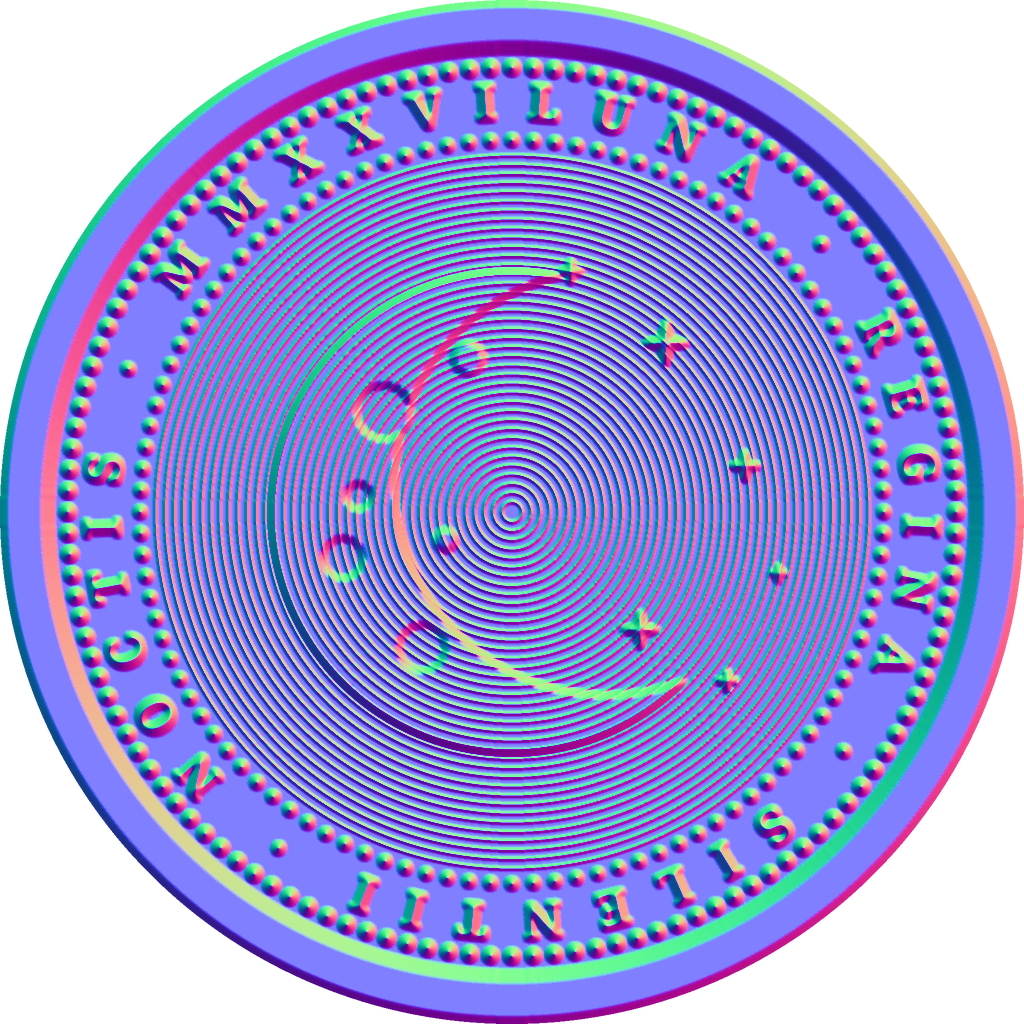
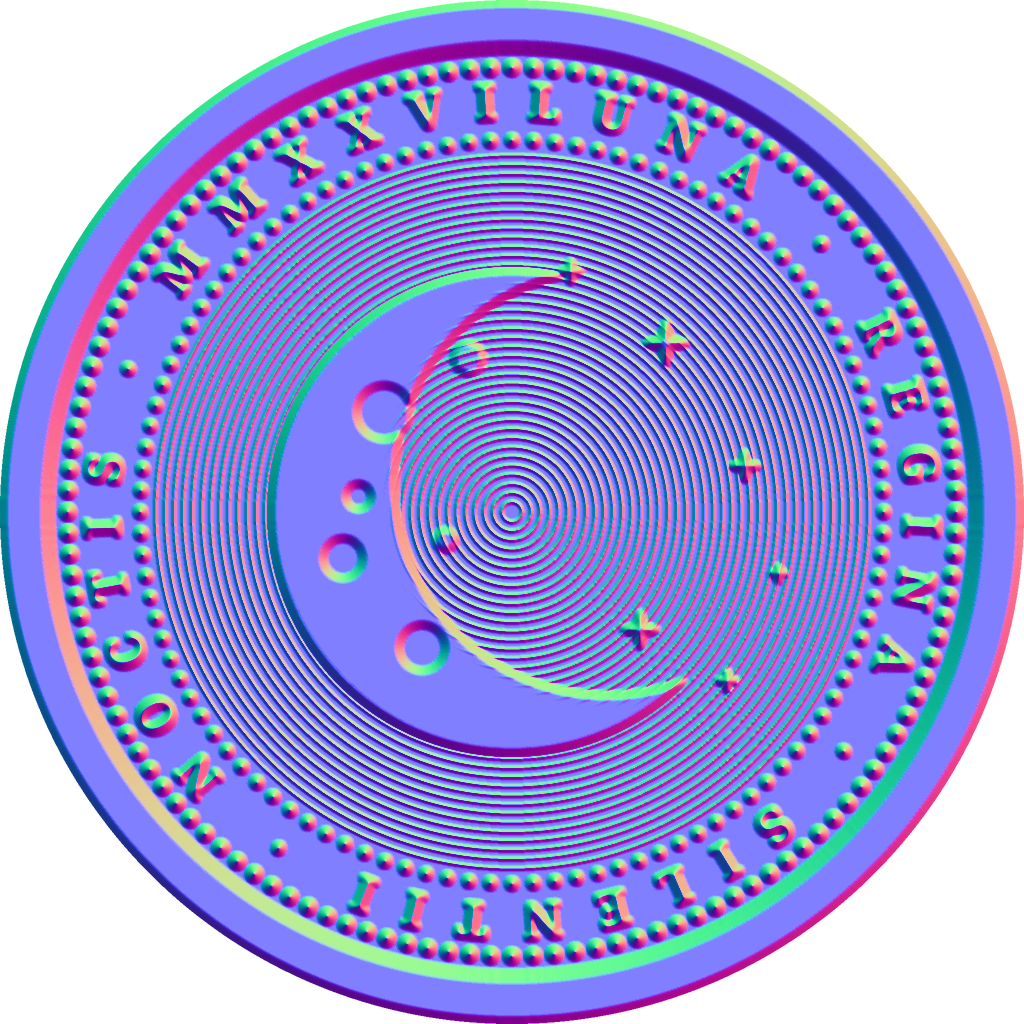
图案：凸起的日与月上擦净同心纹
真的精制币是底子打同心纹、凸起抛成镜面，两者的反差才让图案"浮"
出来。原来凸起上也压着同心纹，整面糊成一片，看着又糙又平。

- 细纹拆成"同心纹"与"放射纹"两层，只擦同心纹
  （日面那层放射细线不是同心纹，擦了光芒之间会空）
- 按凸起的实际形状擦，不是按一个圆盘：
  12 道长光芒、12 道短光芒、中央圆盘、月牙、六颗星逐个登记，
  光芒之间的空隙仍是底子，纹路保留
- 在高度图那一层擦，不是在打光时压淡。否则彩色贴图与法线贴图
  各走各的，静止看着平滑、一转高光又把纹路带回来
- 旋钮 MOTIF_RING_ERASE / MOTIF_EDGE_BLUR

Claude-Session: https://claude.ai/code/session_013L5obD5FRvDZWpqWPEBMAm

Changed region(s): [[0.25, 0.25, 0.6562, 0.75]]

diff --git a/scripts/make_assets.py b/scripts/make_assets.py
@@ -21,7 +21,7 @@ import wave
 from pathlib import Path
 
 import numpy as np
-from PIL import Image, ImageDraw, ImageFilter, ImageFont
+from PIL import Image, ImageChops, ImageDraw, ImageFilter, ImageFont
 
 SIZE = 1024                 # 成品贴图边长
 SS = 2                      # 先按 2 倍画再缩小，边缘才不会有锯齿
@@ -37,6 +37,17 @@ R_BEAD_OUTER = 0.868        # 外侧珠圈
 R_TEXT = 0.800              # 文字环中心线
 R_BEAD_INNER = 0.726        # 内侧珠圈
 R_FIELD = 0.706             # 同心细纹底的外沿
+
+# 日面的"日"、月面的"月"，**凸起的那一块上不要有同心圆纹**。
+#
+# 真的精制币就是这么做的：底子打上密密的同心纹，凸起的图案抛成镜面。
+# 两者的反差才是图案能"浮"出来的原因；要是凸起上也压着同心纹，
+# 整面就是糊的一片，看着又糙又平。
+#
+# 注意擦的是**凸起的形状本身**，不是一个圆盘——
+# 光芒与光芒之间的空隙仍然是底子，那里的同心纹要留着。
+MOTIF_RING_ERASE = 1.0      # 凸起上的同心纹擦掉多少（1 全擦净，0.5 只减淡）
+MOTIF_EDGE_BLUR = 5.0       # 凸起边缘擦出多软的过渡，避免留下生硬的分界线
 
 SUN_TEXT = "SOL · INVICTUS · LUX · AETERNA · MMXXVI"
 MOON_TEXT = "LUNA · REGINA · SILENTII · NOCTIS · MMXXVI"
@@ -107,49 +118,48 @@ def circular_text(layer: Image.Image, text: str, r: float, height: float, v: int
 
 # ─────────────────────────── 两面的图案 ───────────────────────────
 
-def sun_motif(major: Image.Image, fine: Image.Image):
+def sun_motif(major: Image.Image, rings: Image.Image,
+              texture: Image.Image, mask: Image.Image):
     """日面：中央圆盘 + 长短交错的光芒"""
     d = ImageDraw.Draw(major)
+    md = ImageDraw.Draw(mask)
     c = BIG / 2
 
-    # 长光芒和短光芒交替，长的更尖更细
+    # 长光芒和短光芒交替，长的更尖更细。
+    # 每一道都同时登记进 mask —— 它们是凸起的，上面不该有同心纹。
     long_rays, short_rays = 12, 12
     for i in range(long_rays):
         a = 2 * math.pi * i / long_rays - math.pi / 2
-        tip = polar(0.620, a)
-        base = 0.185
-        half = math.radians(4.4)
-        d.polygon([polar(base, a - half), tip, polar(base, a + half)], fill=235)
+        ray = [polar(0.185, a - math.radians(4.4)), polar(0.620, a),
+               polar(0.185, a + math.radians(4.4))]
+        d.polygon(ray, fill=235)
+        md.polygon(ray, fill=255)
 
     for i in range(short_rays):
         a = 2 * math.pi * (i + 0.5) / short_rays - math.pi / 2
-        tip = polar(0.470, a)
-        base = 0.185
-        half = math.radians(3.0)
-        d.polygon([polar(base, a - half), tip, polar(base, a + half)], fill=205)
+        ray = [polar(0.185, a - math.radians(3.0)), polar(0.470, a),
+               polar(0.185, a + math.radians(3.0))]
+        d.polygon(ray, fill=205)
+        md.polygon(ray, fill=255)
 
-    # 一圈很密的细放射线，铺在粗光芒底下，让中间不空
-    fd = ImageDraw.Draw(fine)
+    # 一圈很密的细放射线，铺在粗光芒底下，让中间不空。
+    # 它画在 texture 上而不是 rings 上：这是放射纹，不是同心纹，不该被擦掉。
+    td = ImageDraw.Draw(texture)
     hair = 150
     for i in range(hair):
         a = 2 * math.pi * i / hair
-        fd.line([polar(0.200, a), polar(0.600, a)], fill=255, width=max(2, int(BIG * 0.0013)))
+        td.line([polar(0.200, a), polar(0.600, a)], fill=255, width=max(2, int(BIG * 0.0013)))
 
-    # 中央圆盘，边上围一圈小珠
+    # 中央圆盘，边上围一圈小珠。圆盘也是凸起的，一并登记。
     r_core = 0.150
-    d.ellipse([c - c * r_core, c - c * r_core, c + c * r_core, c + c * r_core], fill=170)
+    box = [c - c * r_core, c - c * r_core, c + c * r_core, c + c * r_core]
+    d.ellipse(box, fill=170)
+    md.ellipse(box, fill=255)
     beads(d, r_core, 40, 0.0125, 225)
 
-    # 圆盘内部也压上同心细纹
-    fd = ImageDraw.Draw(fine)
-    rr = 0.018
-    while rr < r_core - 0.012:
-        fd.ellipse([c - c * rr, c - c * rr, c + c * rr, c + c * rr],
-                   outline=255, width=max(2, int(BIG * 0.0012)))
-        rr += 0.0170
 
-
-def moon_motif(major: Image.Image, fine: Image.Image):
+def moon_motif(major: Image.Image, rings: Image.Image,
+               texture: Image.Image, mask: Image.Image):
     """月面：一弯新月 + 环形坑 + 散落的星"""
     c = BIG / 2
 
@@ -172,16 +182,27 @@ def moon_motif(major: Image.Image, fine: Image.Image):
 
     major.paste(crescent, (0, 0), crescent)
 
+    # 登记"月"凸起的形状：只圈月牙本身，不含周围的空底子——
+    # 月牙之外的同心纹要留着，它们是衬托月牙的底。
+    sil = Image.new("L", (BIG, BIG), 0)
+    sd = ImageDraw.Draw(sil)
+    sd.ellipse([c - c * r, c - c * r, c + c * r, c + c * r], fill=255)
+    sd.ellipse([cx - c * cut_r, cy - c * cut_r, cx + c * cut_r, cy + c * cut_r], fill=0)
+    mask.paste(sil, (0, 0), sil)
+
     # 星星：四角星，大小不一地散在月牙开口那侧
     d = ImageDraw.Draw(major)
+    md = ImageDraw.Draw(mask)
     for sx, sy, ss, v in [(0.300, -0.330, 0.042, 240), (0.455, -0.090, 0.028, 225),
                           (0.250, 0.230, 0.034, 232), (0.420, 0.330, 0.020, 215),
                           (0.115, -0.470, 0.022, 220), (0.520, 0.120, 0.016, 205)]:
         x, y, s = c + c * sx, c + c * sy, c * ss
-        d.polygon([(x, y - s), (x + s * 0.22, y - s * 0.22),
+        star = [(x, y - s), (x + s * 0.22, y - s * 0.22),
                    (x + s, y), (x + s * 0.22, y + s * 0.22),
                    (x, y + s), (x - s * 0.22, y + s * 0.22),
-                   (x - s, y), (x - s * 0.22, y - s * 0.22)], fill=v)
+                   (x - s, y), (x - s * 0.22, y - s * 0.22)]
+        d.polygon(star, fill=v)
+        md.polygon(star, fill=255)
 
 
 # ─────────────────────────── 组装一面 ───────────────────────────
@@ -189,7 +210,9 @@ def moon_motif(major: Image.Image, fine: Image.Image):
 def build_face(text: str, motif) -> tuple[Image.Image, Image.Image]:
     """画出一面的高度图，再产出两张贴图：看得见的彩色图，和描述起伏的法线图"""
     major = new_layer()     # 大块浮雕：外缘、珠圈、文字、图案
-    fine = new_layer()      # 细纹：底子上的同心线
+    rings = new_layer()     # 同心细纹。凸起的图案压在它上面时要把它擦掉
+    texture = new_layer()   # 其它细纹（如日面的放射线），不受擦除影响
+    mask = new_layer()      # 图案凸起的形状
     d = ImageDraw.Draw(major)
     c = BIG / 2
 
@@ -205,7 +228,7 @@ def build_face(text: str, motif) -> tuple[Image.Image, Image.Image]:
     circular_text(major, text, R_TEXT, 0.088, 225)
 
     # 底子上的同心细纹，从中心一直铺到文字环内侧
-    fd = ImageDraw.Draw(fine)
+    fd = ImageDraw.Draw(rings)
     rr = 0.020
     while rr < R_FIELD:
         fd.ellipse([c - c * rr, c - c * rr, c + c * rr, c + c * rr],
@@ -213,9 +236,27 @@ def build_face(text: str, motif) -> tuple[Image.Image, Image.Image]:
         rr += 0.0178
 
     # 中央主图案
-    motif(major, fine)
+    motif(major, rings, texture, mask)
+
+    # 凸起压在哪里，哪里的同心纹就被抹平——这是"图案是镜面、底子是纹路"的来源
+    fine = ImageChops.lighter(erase_rings_under(rings, mask), texture)
 
     return light(major, fine), normal_map(major, fine)
+
+
+def erase_rings_under(rings: Image.Image, mask: Image.Image) -> Image.Image:
+    """
+    把图案凸起压住的那一块上的同心纹擦掉。
+
+    在高度图这一层就擦干净，而不是等打光时再压——这样彩色贴图和法线贴图
+    用的是同一张高度图，不会出现"静止看着平滑、一转高光又把纹路带回来"。
+
+    边缘先糊一道再擦，所以是渐隐过去的，凸起周围不会留下一圈生硬的分界线。
+    """
+    soft = mask.filter(ImageFilter.GaussianBlur(MOTIF_EDGE_BLUR * SS))
+    keep = 1 - MOTIF_RING_ERASE * (np.array(soft, dtype=np.float32) / 255)
+    out = np.array(rings, dtype=np.float32) * keep
+    return Image.fromarray(np.clip(out, 0, 255).astype(np.uint8), "L")
 
 
 def light(major: Image.Image, fine: Image.Image) -> Image.Image:
